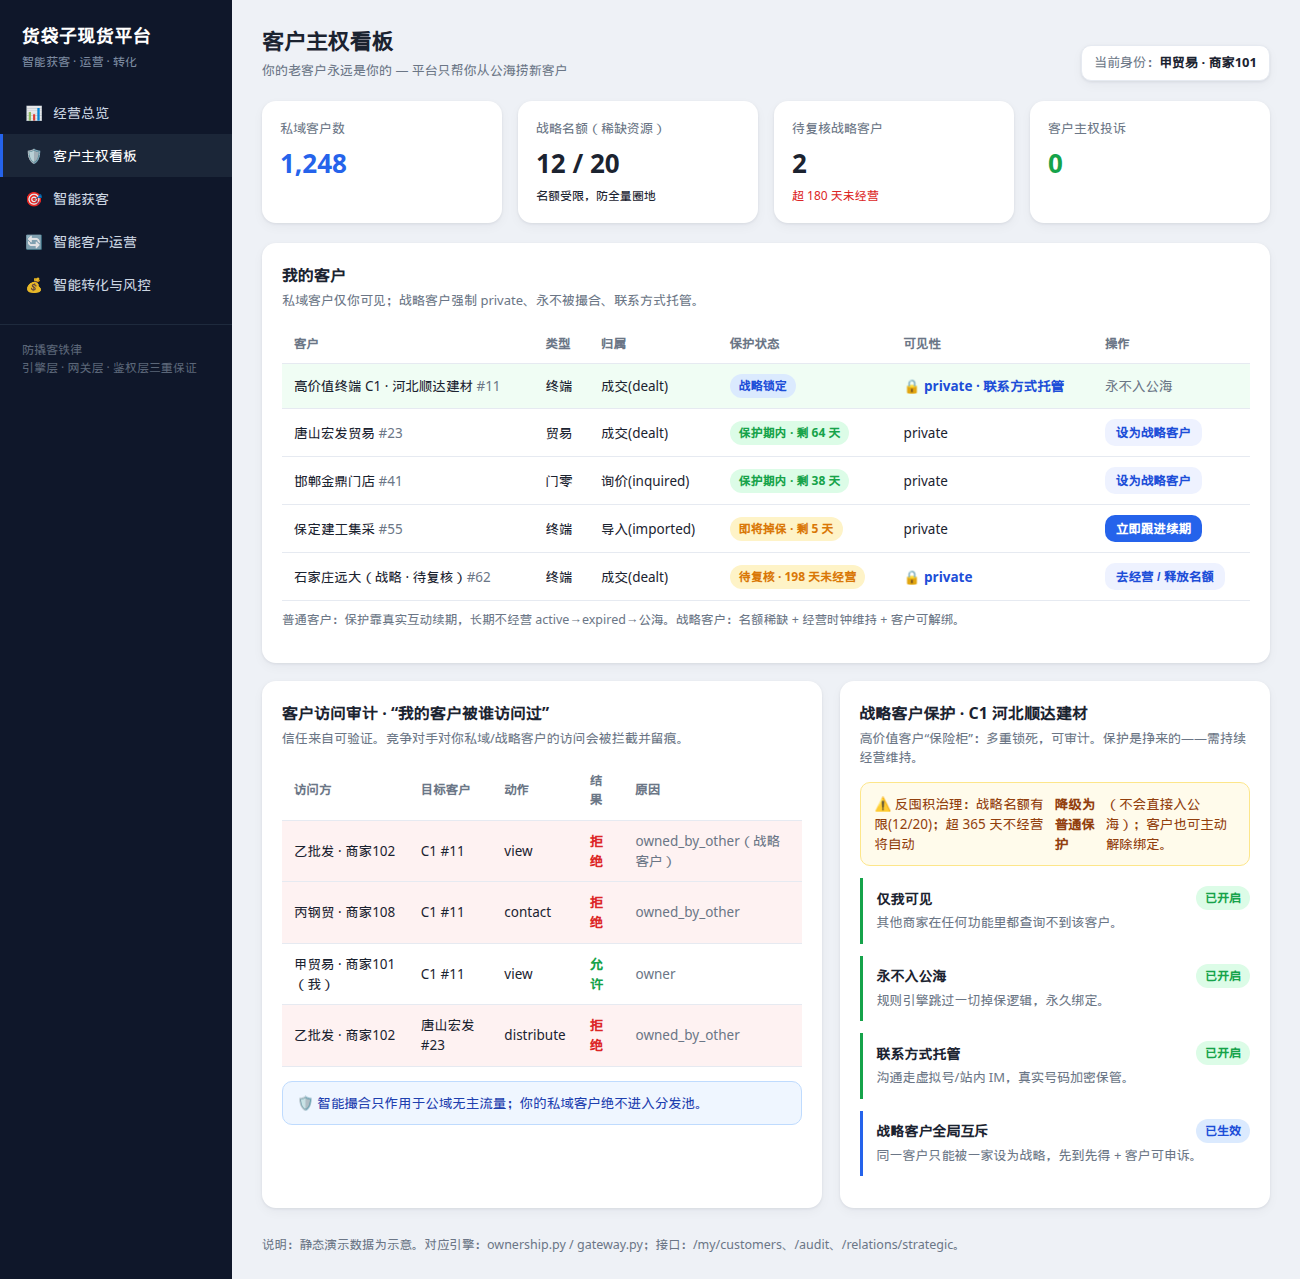
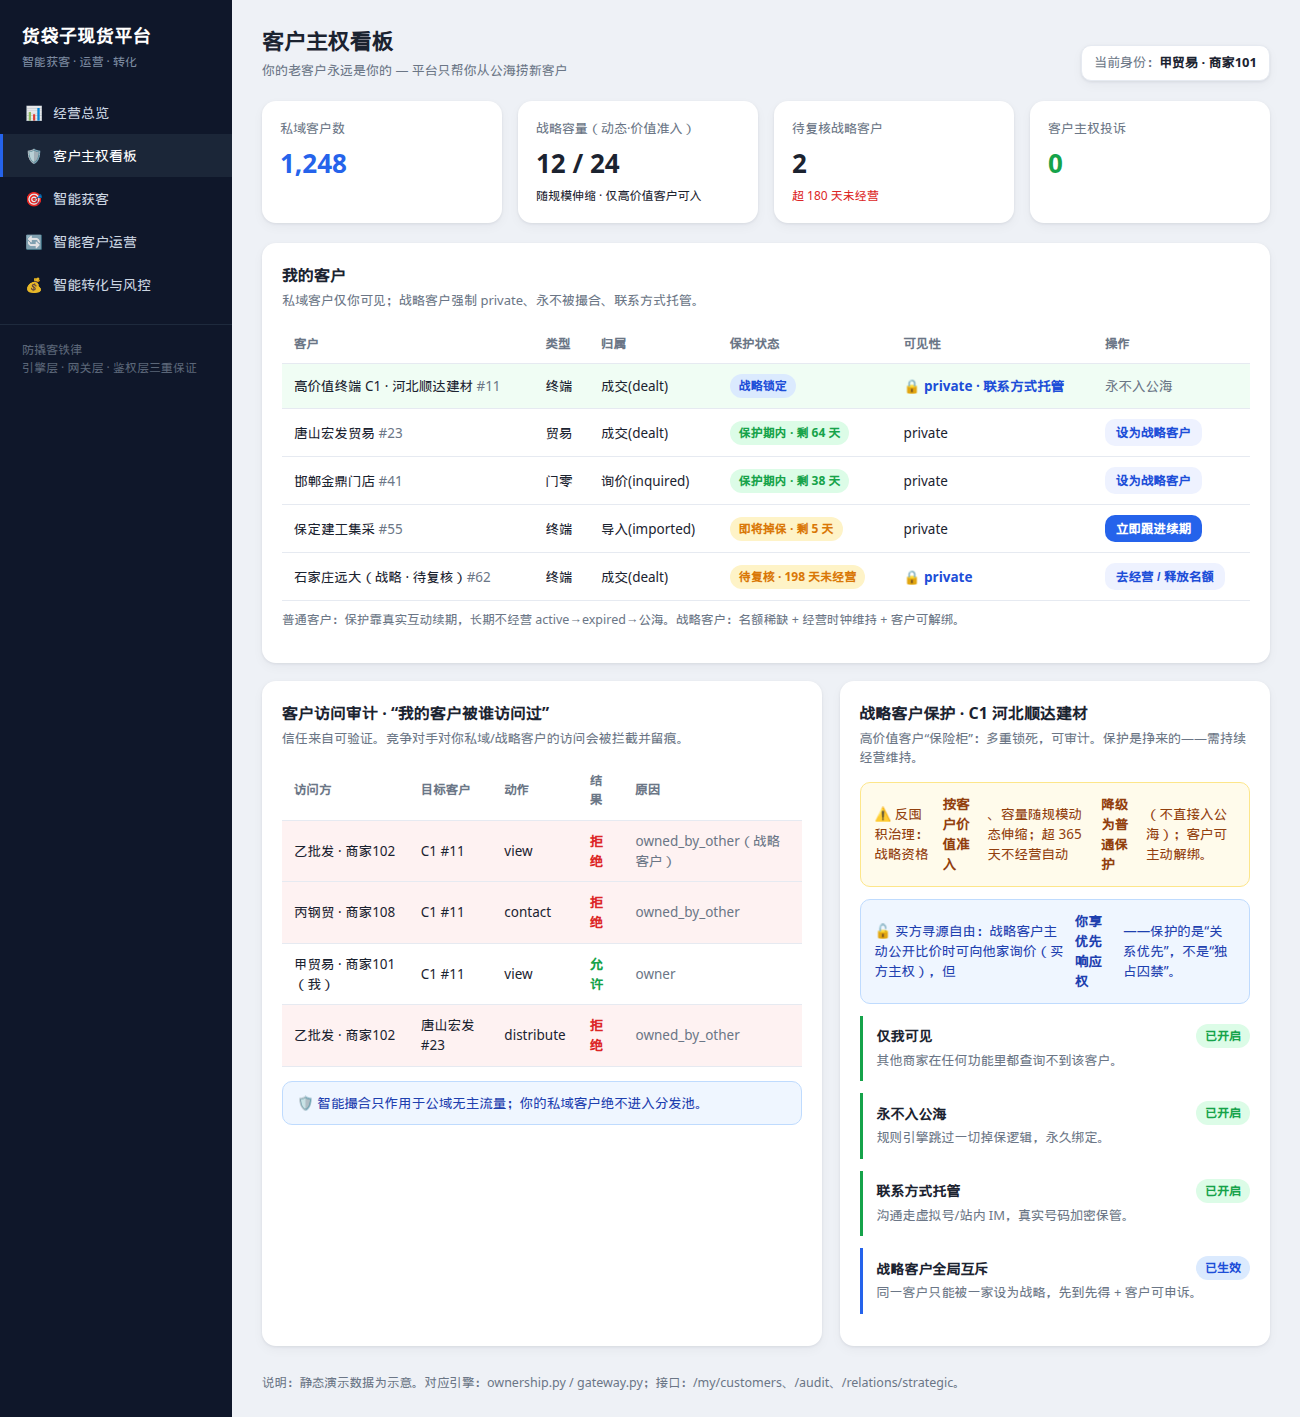
docs/ui: 价值导向战略资格与Push/Pull买方寻源自由设计, 看板体现

diff --git a/static-site/dashboard.html b/static-site/dashboard.html
@@ -31,8 +31,8 @@
 
     <div class="cards">
       <div class="stat blue"><div class="label">私域客户数</div><div class="value">1,248</div></div>
-      <div class="stat"><div class="label">战略名额（稀缺资源）</div><div class="value">12 / 20</div>
-        <div class="delta">名额受限，防全量圈地</div></div>
+      <div class="stat"><div class="label">战略容量（动态·价值准入）</div><div class="value">12 / 24</div>
+        <div class="delta">随规模伸缩 · 仅高价值客户可入</div></div>
       <div class="stat"><div class="label">待复核战略客户</div><div class="value">2</div>
         <div class="delta down">超 180 天未经营</div></div>
       <div class="stat good"><div class="label">客户主权投诉</div><div class="value">0</div></div>
@@ -95,7 +95,8 @@
       <div class="panel">
         <h2>战略客户保护 · C1 河北顺达建材</h2>
         <p class="desc">高价值客户“保险柜”：多重锁死，可审计。保护是挣来的——需持续经营维持。</p>
-        <div class="hint warn" style="margin-bottom:12px;">⚠ 反囤积治理：战略名额有限(12/20)；超 365 天不经营将自动<b>降级为普通保护</b>（不会直接入公海）；客户也可主动解除绑定。</div>
+        <div class="hint warn" style="margin-bottom:12px;">⚠ 反囤积治理：战略资格<b>按客户价值准入</b>、容量随规模动态伸缩；超 365 天不经营自动<b>降级为普通保护</b>（不直接入公海）；客户可主动解绑。</div>
+        <div class="hint" style="margin-bottom:12px;">🔓 买方寻源自由：战略客户主动公开比价时可向他家询价（买方主权），但<b>你享优先响应权</b>——保护的是“关系优先”，不是“独占囚禁”。</div>
         <div style="margin-top:6px;">
           <div class="todo" style="border-left-color:var(--green)">
             <div class="row" style="justify-content:space-between"><b>仅我可见</b><span class="badge green">已开启</span></div>

diff --git a/docs/02-私域公域与归属机制详细设计.md b/docs/02-私域公域与归属机制详细设计.md
@@ -178,10 +178,16 @@ on 有效互动(merchant, customer):
 
 ### 11.2 四道治理闸门
 
-**① 名额配额（Quota）—— 防"全量圈地"**
-- 每个商家的战略客户数量有**上限**，按商家等级/付费档/历史 GMV 动态分配（默认 20，可调）。
-- 名额满时再设战略客户会被拒绝（`QuotaExceeded`），必须先释放名额或升级套餐。
-- 把"战略保护"变成有限资源，逼商家**只锁真正核心的客户**。
+**① 价值准入 + 动态容量 —— 防"全量圈地"，且大小商家都合理**
+
+固定数字配额（如统一 20）不合理：大商家不够、小商家太多。改为**价值导向 + 自动伸缩**：
+
+- **价值准入门槛**：只有客户对该商家的**价值分**达标才有资格设为战略客户。价值分由"近 12 月成交额（毛利代理）+ 复购频次 + 最近活跃 + 合作时长 + 回款表现"加权（实现见 `value.py::customer_value_score`，0-100，门槛默认 40）。低价值客户被 `NotEligibleStrategic` 拒绝。
+- **动态容量**：上限随商家规模自动伸缩，`容量 = clamp(基础值5, ⌈活跃客户数 × 10%⌉, 硬上限)`，并可按付费档封顶（`set_strategic_quota` 覆盖）。大商家自然多、小商家自然少。
+- **价值持续性**：战略身份不仅要"经营时钟"有互动，价值跌破门槛也会进入待复核→降级。
+- 把"战略保护"变成**靠价值挣来的稀缺资源**，而非随意圈地。
+
+> 冷启动期 `value_gate=False`（仅动态容量生效，规则保底）；交易数据充足后开启价值门槛——契合"先规则后模型"。
 
 **② 经营时钟（Use-it-or-lose-it）—— 防"圈而不耕"**
 - 战略客户无固定保护期，但维护一个"经营时钟"`last_interaction_at`，每次真实双向互动刷新。
@@ -213,9 +219,42 @@ on 有效互动(merchant, customer):
 ```
 
 ### 11.4 接口（草图）
-- `POST /relations/strategic` → 设战略客户（名额满返回 403 `QuotaExceeded`）
+- `POST /relations/strategic` → 设战略客户（价值不达标或容量满返回 403）
+- `GET /strategic/eligibility/{customer_id}` → 资格评估（价值分/已用/容量/原因）
 - `DELETE /relations/strategic/{customer_id}` → 释放名额（降级为普通保护）
-- `GET /strategic/quota` → 名额使用情况 + 待复核(at_risk)战略客户
+- `GET /strategic/quota` → 容量使用情况 + 待复核(at_risk)战略客户
 - `POST /relations/customer-opt-out` → 客户侧主动解绑（回公海）
 
-> 实现见 `prototype/steel_platform/ownership.py`：`strategic_quota / strategic_used / strategic_health / unmark_strategic / customer_opt_out / refresh_states(降级)`，配套单元测试覆盖配额、降级、客户解绑。
+> 实现见 `prototype/steel_platform/value.py`（价值分/动态容量）与 `ownership.py`：`strategic_eligibility / strategic_capacity / strategic_health / unmark_strategic / customer_opt_out / refresh_states(降级)`，配套单元测试覆盖价值门槛、动态容量、降级、客户解绑。
+
+---
+
+## 12. 买方寻源自由 vs 卖家关系保护（Push / Pull 平衡）
+
+### 12.1 关键澄清：保护的是"卖家关系"，不是"囚禁买方"
+
+战略/私域保护**绝不等于**"买方被某卖家独占、不许找别人"。量大的买方天然要多找供应商比价，买方也有自主采购权；若平台禁止买方向他家询价，买方会问"我为什么要用这个平台？"——这会摧毁平台对买方的价值，也涉嫌不正当限制。
+
+因此把需求分成两条通道，区别对待：
+
+| 通道 | 含义 | 规则 |
+|---|---|---|
+| **平台 Push（被动分发）** | 撮合引擎主动把需求推给卖家 | 买方有私域归属 → **不进 Push 池**，平台绝不替卖家把客户当流量分给同行（这才是"防撬客"真正要拦的） |
+| **买方 Pull（主动公开寻源）** | 买方自己发起公开询价/招标/比价（`is_public=true`） | **永远自由**：即便买方是某商家的私域/战略客户，也可向任意卖家询价；但**归属商家(老关系)享优先响应权** |
+
+### 12.2 老关系的"优先响应权"（而非"独占权"）
+
+当战略/私域买方主动公开寻源时：
+- 系统**允许**其他公域卖家参与报价（尊重买方自由）；
+- 但**归属商家**的货源被标记 `priority` 并**排序靠前**（优先响应/优先展示），可叠加"优先报价窗口"（老关系先报 X 分钟，或买方选择"多家比价"后才放开）。
+
+这样：
+- 买方不会被绑死 → 留在平台有意义（能高效比价、能找到更多货源）；
+- 卖家老关系仍有**实质优势**（优先权）且平台不主动撬 → 卖家愿意把真实客户放进来；
+- "保护"从"独占垄断"修正为"优先服务"，更可持续、更公平。
+
+### 12.3 实现
+- `matching.py::_is_eligible_demand`：私域买方的**非公开**需求不进撮合（防 Push 撬客）；**公开**需求放行（买方 Pull 自由）。
+- `matching.py::match_for_demand`：公开需求且买方有归属时，归属商家货源 `priority=True` 且排序最前。
+- `ownership.py::active_owner_merchant`：返回买方当前归属商家，用于授予优先权。
+- 测试见 `test_value_and_freedom.py::TestBuyerSourcingFreedom`（被动需求不被 push；公开寻源可达他家且老关系优先）。
